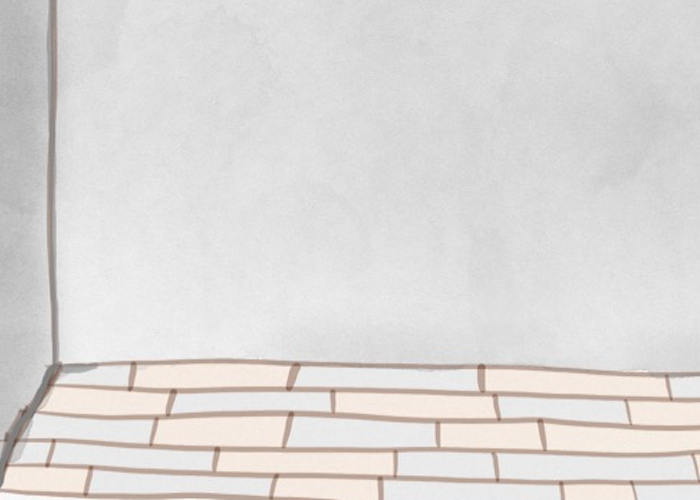
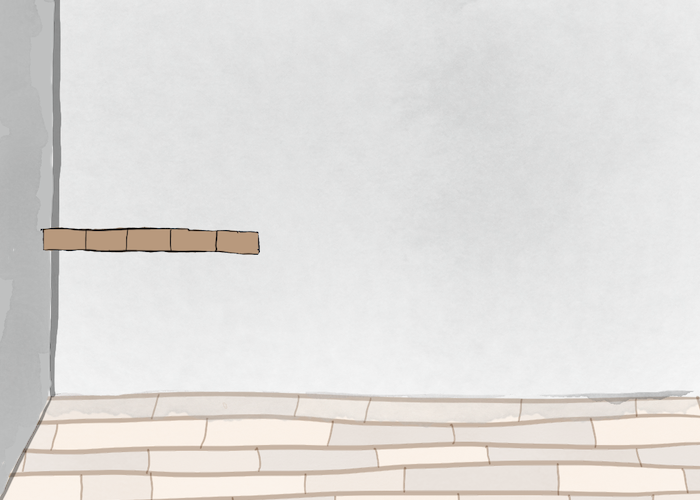
various improvements esp for asp-lamia jevel

Changed region(s): [[0.0, 0.0, 1.0, 1.0], [0.9, 0.18, 1.0, 0.27]]

diff --git a/levels/asp-lamia/asp-lamia.js b/levels/asp-lamia/asp-lamia.js
@@ -69,6 +69,9 @@ getLevelFunctions['asp-lamia'] = function() {
                 if (currentRoom === 'room1')
                     passages[1].setObstacle(this.getKey());
             }
+            extraTransformFromBehavior() {
+                // level.sounds['indignity'].play();
+            }
         }
 
         window.Ode = class Ode extends Thing {
@@ -101,14 +104,16 @@ getLevelFunctions['asp-lamia'] = function() {
         window.Stair = class Stair extends Thing {
             appearInRoom0() {
                 if (currentRoom === 'room0') {
-                    this.x = 58 * xScaleFactor;
-                    this.y = 65 * yScaleFactor;
+                    this.x = 56 * xScaleFactor;
+                    this.y = 69 * yScaleFactor;
                     passages[1].activated = true;
-                    passages[2].activated = true;
+                    /* passages[2].activated = true;
                     if (passages[1].state === PASSAGE_STATE_OCCUPIED)
                         passages[2].state = PASSAGE_STATE_ACTIVE;
                     else
                         passages[2].state = PASSAGE_STATE_OCCUPIED;
+
+                     */
                 }
             }
             disappearFromRoom0() {
@@ -133,6 +138,16 @@ getLevelFunctions['asp-lamia'] = function() {
                 }
                 else {
                     return super.handleClick();
+                }
+            }
+            handleDblclick(e) {
+                if (currentRoom !== 'room0'){
+                    displayMessage('Sorry, the stairs do not lead anywhere here!', 2 * DEFAULT_MESSAGE_DURATION);
+
+                    return true;
+                }
+                else {
+                    return super.handleDblclick(e);
                 }
             }
         }
@@ -194,12 +209,12 @@ getLevelFunctions['asp-lamia'] = function() {
     level.initialInventory = {};
     level.backgroundMusicFile = 'Investigations Kevin MacLeod Gaming Background Music HD.mp3';
     level.allWords = [ 'asp','cod','code','codes','crook','crooks','cub','cube','cubes','cubs','doe','does','dose','lamia','lamias','ode','odes','paw','paws','rapper','rappers','rook','rooks','salami','sap','sitar','sitars','spa','stair','stairs','treasure','treasures','wasp','wrapper' ];
-    level.initialThings = [  ['asp','room1',80,86],['lamia','room1',56,70],['wrapper','room0',58,81],['ode','room0',32,30],['crook','room2',50,77],['sitar','room2',85,81],['cub','room3',81,80],['treasure','room4',75,81] ];
+    level.initialThings = [  ['asp','room1',80,86],['lamia','room1',56,70],['wrapper','room0',58,81],['ode','room0',32,32],['crook','room2',50,77],['sitar','room2',85,81],['cub','room3',81,80],['treasure','room4',75,81] ];
     level.targetThing = 'treasure';
-    level.immovableObjects = [ 'asp','crook','crooks','cub','cube','cubes','cubs','doe','does','lamia','lamias','rapper','rappers','spa','stair','stairs' ];
+    level.immovableObjects = [ 'asp','crook','crooks','cub','cube','cubes','cubs','doe','does','lamia','lamias','rapper','rappers','spa','stair','stairs','wasp' ];
     level.bonusWords = ['doe','does','dose','sap','spa'];
     level.initialRunes = [];
-    level.sounds = {};
+    level.sounds = { 'indignity': new Audio(getLevelPathFromFolderName(level.folderName) + '/audio/indignity.m4a') };
     level.additionalImageNamesToPreload = ['wasp_0','wasp_1'];
     level.pluralWords = { 'codes':'code', 'crooks':'crook', 'cubs':'cub', 'does':'doe', 'lamias':'lamia', 'odes':'ode', 'paws':'paw', 'rappers':'rapper', 'rooks':'rook', 'sitars':'sitar', 'treasures':'treasure' }; // note don't list stairs here because don't want to double the image.
 
@@ -208,9 +223,9 @@ getLevelFunctions['asp-lamia'] = function() {
             boundaries: [],
             filledPolygons: [],
             passages: [ 
-               new Passage(PassageTypes.INVISIBLE_HORIZONTAL, 'W',3, 77, 'room0', 90, 77, true, 80, 77),
+               new Passage(PassageTypes.INVISIBLE_HORIZONTAL, 'W',3, 77, 'room0', 90, 77, true, 84, 77),
                new Passage(PassageTypes.INVISIBLE_VERTICAL, 'N',68, 55, 'room2', 5, 77, true, 30, 77, 'lamia', PASSAGE_STATE_BLOCKED, 50, 68),
-               new Passage(PassageTypes.INVISIBLE_HORIZONTAL, 'E',97, 89, 'room3', 10, 77, true, 50, 77, 'asp', PASSAGE_STATE_BLOCKED, 73, 85)
+               new Passage(PassageTypes.INVISIBLE_HORIZONTAL, 'E',97, 87, 'room3', 10, 77, true, 50, 77, 'asp', PASSAGE_STATE_BLOCKED, 73, 85)
             ],
             hasOwnBackgroundImage: true,
         },

diff --git a/levels/fjord-widow/fjord-widow.js b/levels/fjord-widow/fjord-widow.js
@@ -11,6 +11,17 @@ getLevelFunctions['fjord-widow'] = function() {
 
     level.defineThingSubclasses = function() { 
 
+        window.Awn = class Awn extends Thing {
+            handleClick() {
+                if (currentRoom === 'room0' && 'awn' in thingsHere && passages[0].state !== PASSAGE_STATE_OCCUPIED) {
+                    displayMessage('Too far away to transform!', DEFAULT_MESSAGE_DURATION);
+                    return true;
+                }
+                else {
+                    return super.handleClick();
+                }
+            }
+        }
         window.Axe = class Axe extends Thing {
             handleDblclick(e) {
                 if ('foes' in thingsHere && this.word in inventory) {
@@ -55,6 +66,7 @@ getLevelFunctions['fjord-widow'] = function() {
             constructor(word,room,x,y,isonymIndex) {
                 super(word,room,x,y,isonymIndex);
                 this.reblocksPassageUponReturn = true;
+                this.wordDisplayOffsetY = -40;
             }
             passageBlockingBehavior() {
                 displayMessage('The fjord is too deep!', DEFAULT_MESSAGE_DURATION);
@@ -103,6 +115,7 @@ getLevelFunctions['fjord-widow'] = function() {
 
     level.getThing = function(word,room,x,y) {
         switch (word) {
+            case 'awn' : return new Awn(word,room,x,y);
             case 'ax' : return new Axe(word,room,x,y);
             case 'axe' : return new Axe(word,room,x,y);
             case 'fjord' : return new Fjord(word,room,x,y);
@@ -123,7 +136,7 @@ getLevelFunctions['fjord-widow'] = function() {
     level.initialInventory = {};
     level.backgroundMusicFile = 'Sneaky Snitch.mp3';
     level.allWords = [ 'ad','ade','ale','awn','ax','axe','axle','fjord','floes','foes','ford','foxes','jade','lad','law','lawn','lead','widow','window' ];
-    level.initialThings = [ ['fjord','room1',18,55],['ale','room1',60,81],['widow','room1',87,63],['awn','room0',14,81],['foxes','room0',52,81],['ade','room2',50,81] ];
+    level.initialThings = [ ['fjord','room1',19,67],['ale','room1',60,81],['widow','room1',87,63],['awn','room0',14,81],['foxes','room0',52,81],['ade','room2',50,81] ];
     level.targetThing = 'jade';
     level.immovableObjects = [ 'fjord','floes','foes','ford','foxes','lad','lawn','widow','window' ];
     level.bonusWords = [ 'ad','ax','floes','lad','lead' ];

diff --git a/levels/testlevel/testlevel.js b/levels/testlevel/testlevel.js
@@ -1,0 +1,53 @@
+/* testlevel.js */
+
+/* code generated by command: python3 create_level.py "name=testlevel" "initialSpells=remove-letter" "room=name:room1,things:apples foes,exits:E/room2" */
+
+levelList.push( { name:'testlevel', difficulty:0 } );
+
+getLevelFunctions['testlevel'] = function() {
+
+    let level = new Level('testlevel');
+    level.folderName = 'testlevel';
+
+    level.defineThingSubclasses = function() { 
+
+        window.Foe = class Foe extends Thing {
+        }
+
+        window.Foes = class Foes extends Thing {
+        }
+
+    }
+
+    level.getThing = function(word,room,x,y,isonymIndex) {
+        switch (word) {
+            case 'foe' : return new Foe(word,room,x,y,isonymIndex);
+            case 'foes' : return new Foes(word,room,x,y,isonymIndex);
+            default : return undefined; // this will cause instantiation of plain-vanilla Thing.
+        }
+    }
+    level.initialRoom = 'room1';
+    level.initialX = 55; // expressed as % of way across x axis, i.e. value range is 0-100 
+    level.initialY = 75;
+    level.initialSpells = [ 'remove-letter' ];
+    level.initialInventory = {};
+    level.backgroundMusicFile = undefined;
+    level.allWords = [ 'apple','apples','foe','foes' ];
+    level.initialThings = [ ['apples','room1',40,81],['foes','room1',60,81] ];
+    level.immovableObjects = ['foe','foes',];
+    level.bonusWords = [];
+    level.plurals = {'apples':'apple','foes':'foe',};
+    level.initialRunes = [];
+    level.sounds = {};
+    level.additionalImageNamesToPreload = [];
+
+    level.rooms = {
+        'room1': {
+            boundaries: [],
+            filledPolygons: [],
+            passages: [ 
+               new Passage(PassageTypes.INVISIBLE_HORIZONTAL, 'E',97, 77, 'room2', 10, 77, true, 50, 77)],
+        },
+    };
+    return level;
+}

diff --git a/levels/jerk-whiskey/jerk-whiskey.js b/levels/jerk-whiskey/jerk-whiskey.js
@@ -31,6 +31,7 @@ getLevelFunctions['jerk-whiskeys [new, missing some artwork]'] = function() {
                 level.sounds['get_lost'].play()
             }
             extraTransformFromBehavior() {
+                level.sounds['hands'].play();
                 if ('whiskers' in thingsHere)
                     thingsHere['whiskers'].dispose();
             }
@@ -203,6 +204,7 @@ getLevelFunctions['jerk-whiskeys [new, missing some artwork]'] = function() {
         'whiskeys' : new Audio(getLevelPathFromFolderName(level.folderName) + '/audio/whiskeys.m4a'),
         'get_lost' : new Audio(getLevelPathFromFolderName(level.folderName) + '/audio/get_lost.m4a'),
         'what_the' : new Audio(getLevelPathFromFolderName(level.folderName) + '/audio/what_the.m4a'),
+        'hands' : new Audio(getLevelPathFromFolderName(level.folderName) + '/audio/hands.m4a'),
     }
     level.rooms = {
         'room1': {

diff --git a/levels/slime-blaze/slime-blaze.js b/levels/slime-blaze/slime-blaze.js
@@ -183,7 +183,7 @@ getLevelFunctions['slime-blaze'] = function() {
 
         window.Slime = class Slime extends Thing {
             passageBlockingBehavior() {
-                displayMessage('Gross!');
+                displayMessage('Gross!',DEFAULT_MESSAGE_DURATION);
             }
         }
 
